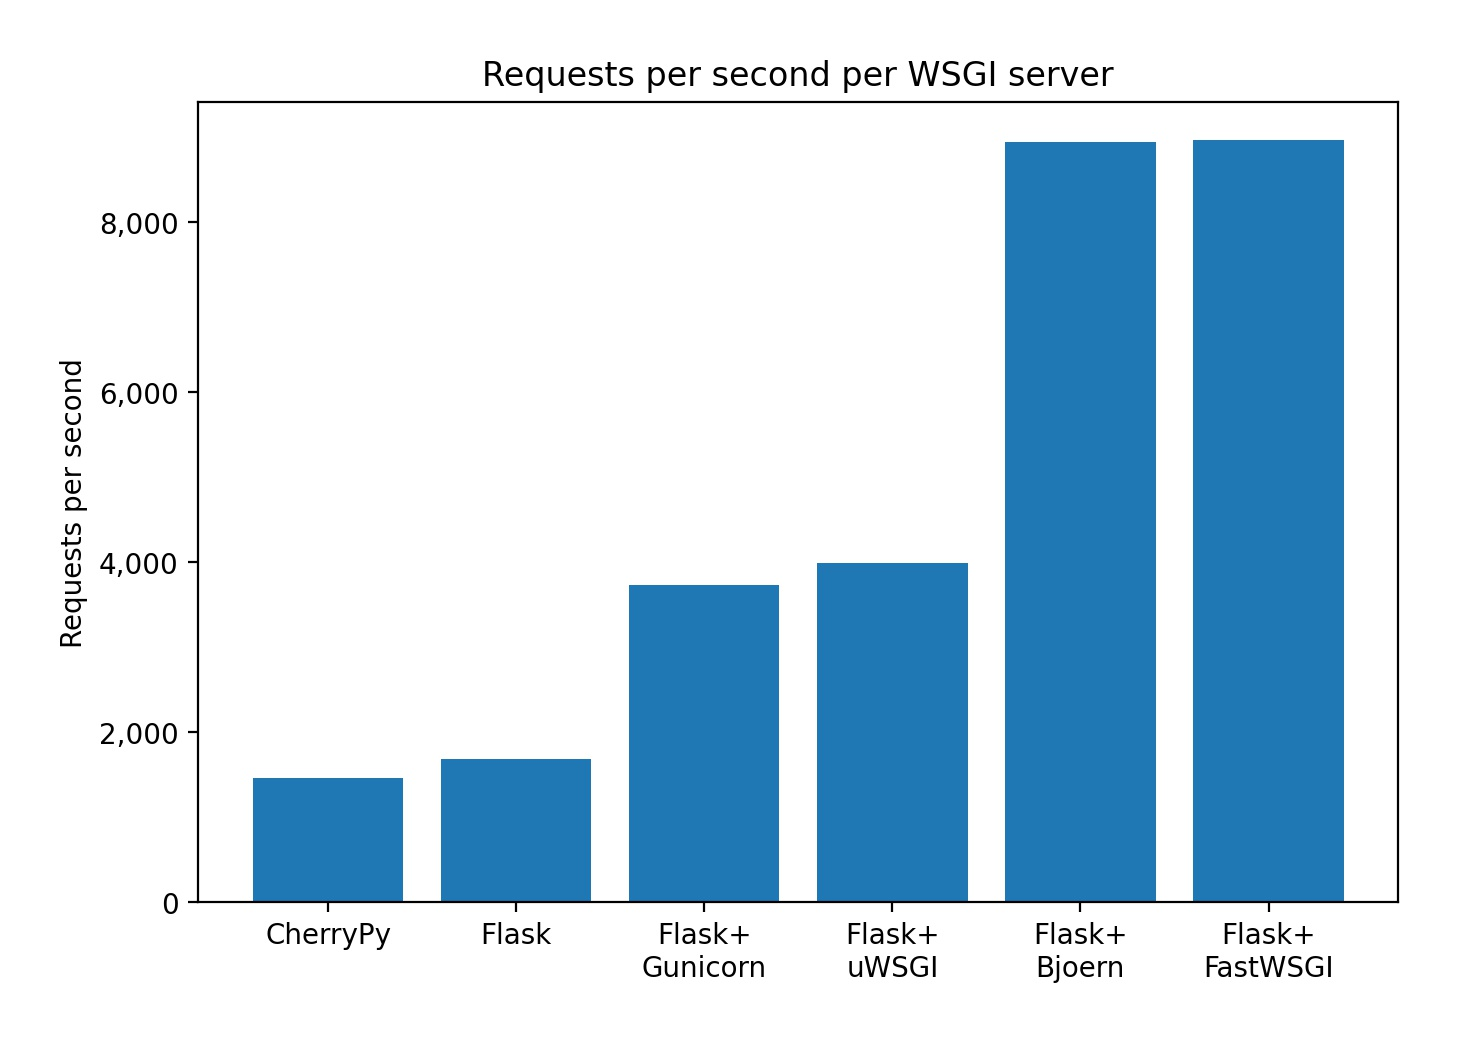
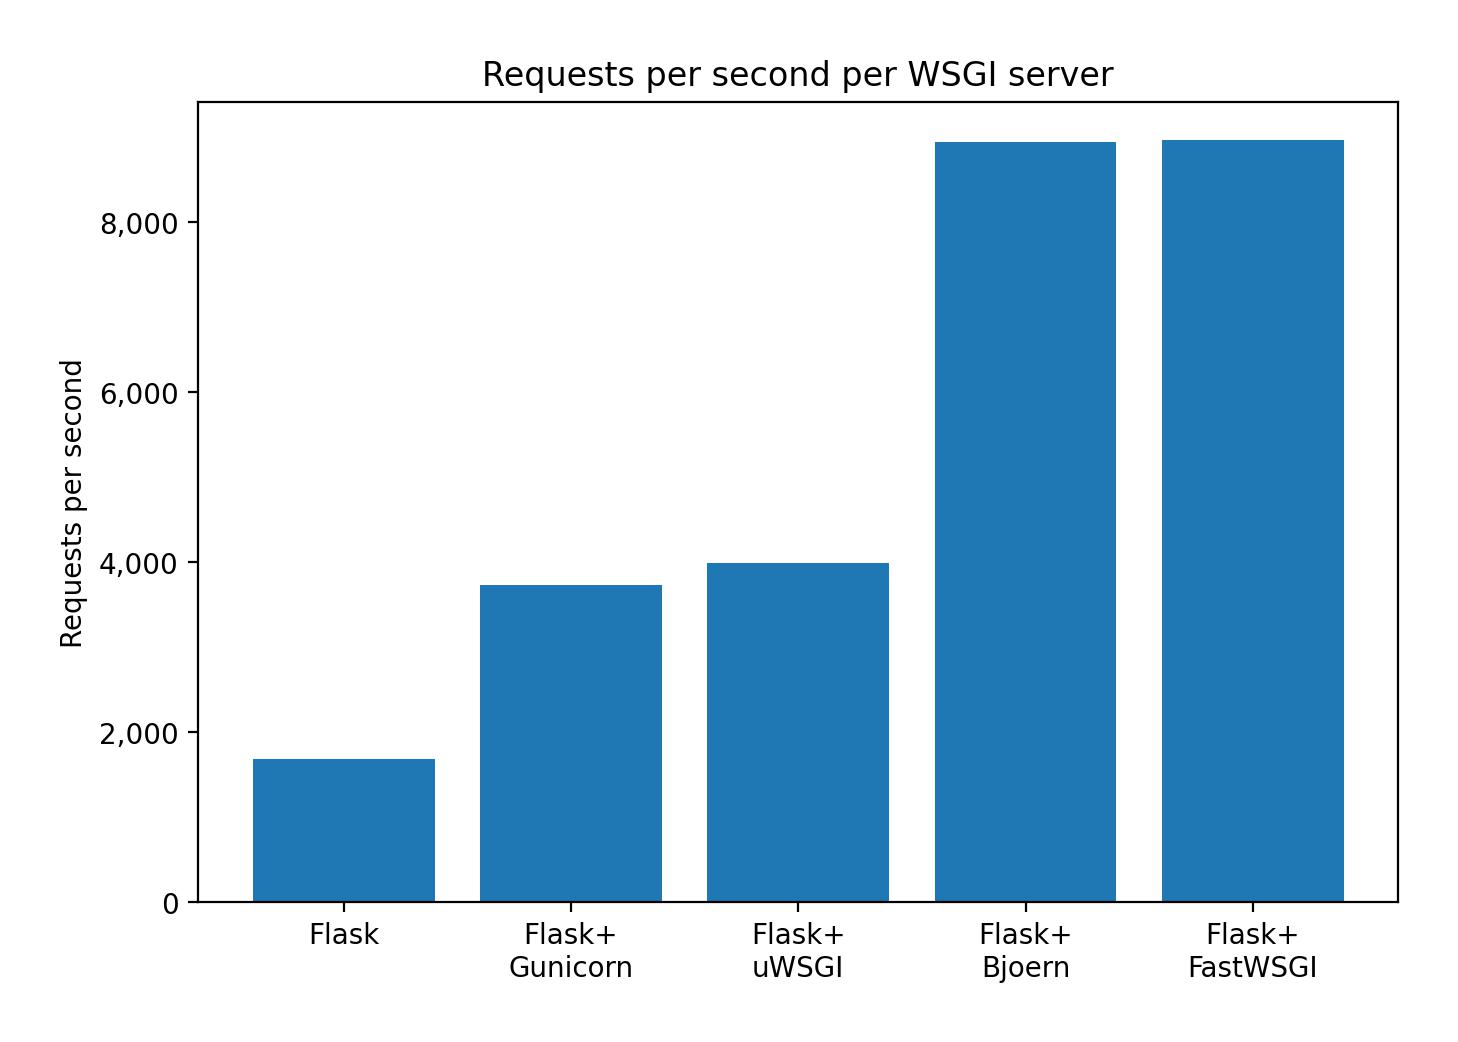
Add cheroot WSGI to benchmarks (#12)
* feat: add cheroot WSGI to benchmarks

* feat: remove CherryPy benchmark and reuse application from gunicorn

Changed region(s): [[0.1543, 0.1228, 0.7716, 0.952], [0.7407, 0.1228, 0.9259, 0.952], [0.1852, 0.8906, 0.2778, 0.9213]]

diff --git a/performance_benchmarks/generate_figures.py b/performance_benchmarks/generate_figures.py
@@ -48,7 +48,6 @@ def extract_data(req_ps, req_served, benchmarks):
 
 
 flask_benchmarks = {
-    "CherryPy": "results/cherrypy_results.txt",
     "Flask": "results/basic_flask_results.txt",
     "Flask+\nGunicorn": "results/gunicorn_flask_results.txt",
     "Flask+\nuWSGI": "results/uwsgi_flask_results.txt",
@@ -57,6 +56,7 @@ flask_benchmarks = {
 }
 
 wsgi_benchmarks = {
+    "Cheroot": "results/cheroot_wsgi_results.txt",
     "Gunicorn": "results/gunicorn_wsgi_results.txt",
     "Uvicorn": "results/uvicorn_asgi_results.txt",
     "uWSGI": "results/basic_uwsgi_results.txt",

diff --git a/performance_benchmarks/servers/cheroot_wsgi.py b/performance_benchmarks/servers/cheroot_wsgi.py
@@ -1,0 +1,9 @@
+"""
+Adapted from https://github.com/cherrypy/cheroot/blob/master/cheroot/test/test_wsgi.py
+"""
+
+from cheroot import wsgi
+from gunicorn_wsgi import application
+
+server = wsgi.Server(bind_addr=("localhost", 8080), wsgi_app=application)
+server.start()
